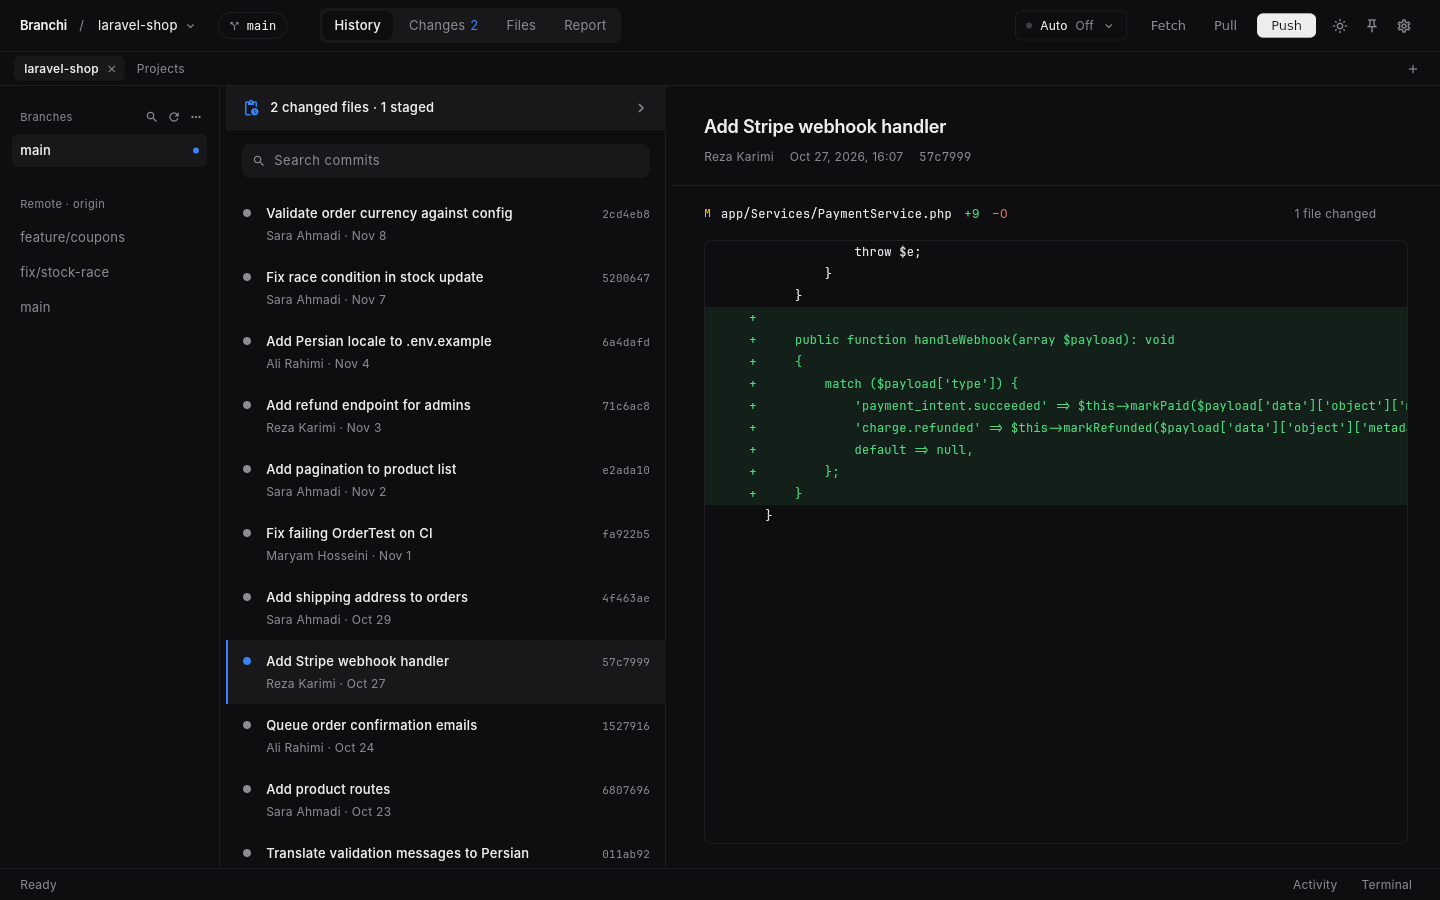
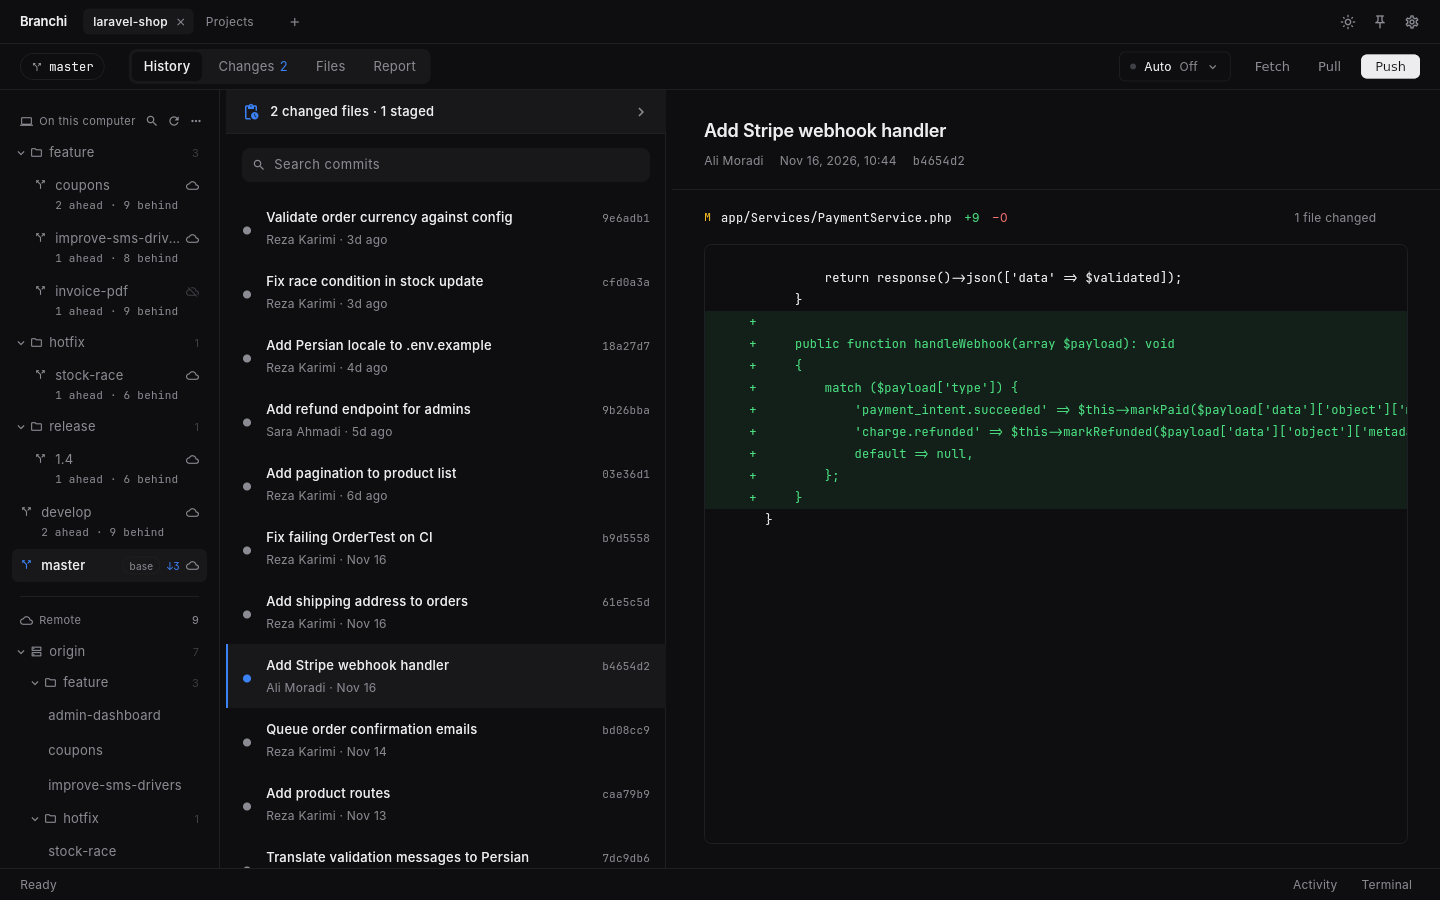
README: retake all screenshots and the demo GIF; document the new features
All screenshots and the GIF are retaken from the current Linux build on
a regenerated demo repository: branch folders and the Remote section,
the branch menu, the Activity panel and the keyboard shortcuts page are
new shots. The README gains sections on branches, activity and keyboard
shortcuts, and notes that pull keeps uncommitted changes.

Claude-Session: https://claude.ai/code/session_01Faq4edqhkSFNm9LMD8KnUP

diff --git a/README.md b/README.md
@@ -1,7 +1,7 @@
 # Branchi — a free, open-source git client for Windows, macOS and Linux
 
 <p align="center">
-  <img src="docs/branchi-demo.gif" width="820" alt="Branchi git client tour: update all repositories in a folder, activity reports, history, changes, editor and settings" />
+  <img src="docs/branchi-demo.gif" width="820" alt="Branchi git client tour: update all repositories in a folder, activity reports, history with branch folders, the branch menu, activity log, changes, editor, terminal and keyboard shortcuts" />
 </p>
 
 **Branchi** is a free and open-source (MIT) desktop git client for Windows, macOS and Linux with a **Rust** core
@@ -39,6 +39,10 @@ That is what Branchi is being built for.
 ## Features at a glance
 
 - History with branches, commit search and file-by-file diffs
+- Branches grouped into folders (`feature/`, `hotfix/`, …) and a separate
+  Remote section with each remote (`origin`, `upstream`, …) on its own
+- Merge, rebase, create and delete branches from a branch's right-click
+  menu; deleting a branch with unmerged commits asks a second time
 - Stage, unstage, revert and commit — or commit and push in one step
 - Fetch, pull (fast-forward) and push, plus remote management
 - Auto-pull branch watcher that keeps the current branch up to date
@@ -48,6 +52,8 @@ That is what Branchi is being built for.
 - Custom date ranges, Gregorian or Jalali calendar
 - Built-in file browser and code editor
 - Built-in terminal with multiple terminal tabs
+- Activity log of every git action, grouped by day
+- Keyboard shortcuts for sections, panels and tabs, listed in Settings
 - Light and dark themes, accent colors, English, Persian and Arabic
 - No separate Git install needed for everyday work — the git engine is built in
 
@@ -70,7 +76,14 @@ That is what Branchi is being built for.
   <img src="docs/screenshots/editor.png" width="400" alt="Branchi file editor" />
 </p>
 <p>
+  <img src="docs/screenshots/branch-menu.png" width="400" alt="Branch menu: merge, rebase, new branch, push and delete" />
+  <img src="docs/screenshots/activity.png" width="400" alt="Activity log of git actions, grouped by day" />
+</p>
+<p>
+  <img src="docs/screenshots/settings-shortcuts.png" width="400" alt="Keyboard shortcuts in Settings" />
   <img src="docs/screenshots/settings.png" width="400" alt="Branchi branch watcher settings" />
+</p>
+<p>
   <img src="docs/screenshots/welcome.png" width="400" alt="Branchi start page" />
 </p>
 
@@ -113,9 +126,23 @@ commits, and open any commit to see its diff file by file. The **Changes**
 view stages, unstages and reverts files and commits, or commits and pushes
 in one step. The **Files** view is a file tree with a built-in code editor.
 
+### Branches
+Local branches are grouped into folders by their prefix (`feature/`,
+`hotfix/`, `release/`, …), and a separate **Remote** section lists every
+remote (`origin`, `upstream`, …) with its own branches, PhpStorm style. Each
+local branch shows how far it is ahead of or behind the base branch (`main`
+by default, or any branch you pick). Right-click a branch to check it out,
+update it, merge it into the current branch, rebase onto it, merge the base
+branch into it, start a new branch from it, push it or delete it. Deleting a
+remote branch deletes it on the server; deleting a local branch with commits
+that aren't in the base branch asks a second time and says how many commits
+would be lost.
+
 ### Pull, push and auto-pull
 Fetch, pull and push from the top bar. Pulls are fast-forward only, so your
-branch is never rewritten behind your back. The **branch watcher** can pull
+branch is never rewritten behind your back. Uncommitted changes are kept;
+if an incoming change would overwrite one, the pull stops and changes
+nothing. The **branch watcher** can pull
 the current branch on a schedule, only when the working tree is clean, and
 notify you when new commits arrive.
 
@@ -148,6 +175,21 @@ uses each author's own local time, taken from their commits.
 ### Built-in terminal
 Each repository tab has its own terminal panel with multiple terminal tabs,
 opened in the repository folder. Choose which shell to use in Settings.
+
+### Activity and keyboard shortcuts
+The **Activity** panel lists every git action Branchi ran, grouped by day,
+with what it changed and why anything failed. Keyboard shortcuts (on macOS,
+⌘ instead of Ctrl for the sections and ⌥ for Alt):
+
+| Action | Keys |
+| --- | --- |
+| History / Changes / Files / Report | Ctrl+1 / Ctrl+2 / Ctrl+3 / Ctrl+4 |
+| Show or hide the terminal | Alt+F12 |
+| Show or hide activity | Alt+F9 |
+| Next / previous tab | Ctrl+Tab / Ctrl+Shift+Tab |
+| Go to tab 1–9 | Alt+1 … Alt+9 |
+
+The list is also in **Settings → Keyboard shortcuts**.
 
 ### Languages, RTL and calendars
 English, Persian and Arabic, with a full right-to-left layout. Dates follow
